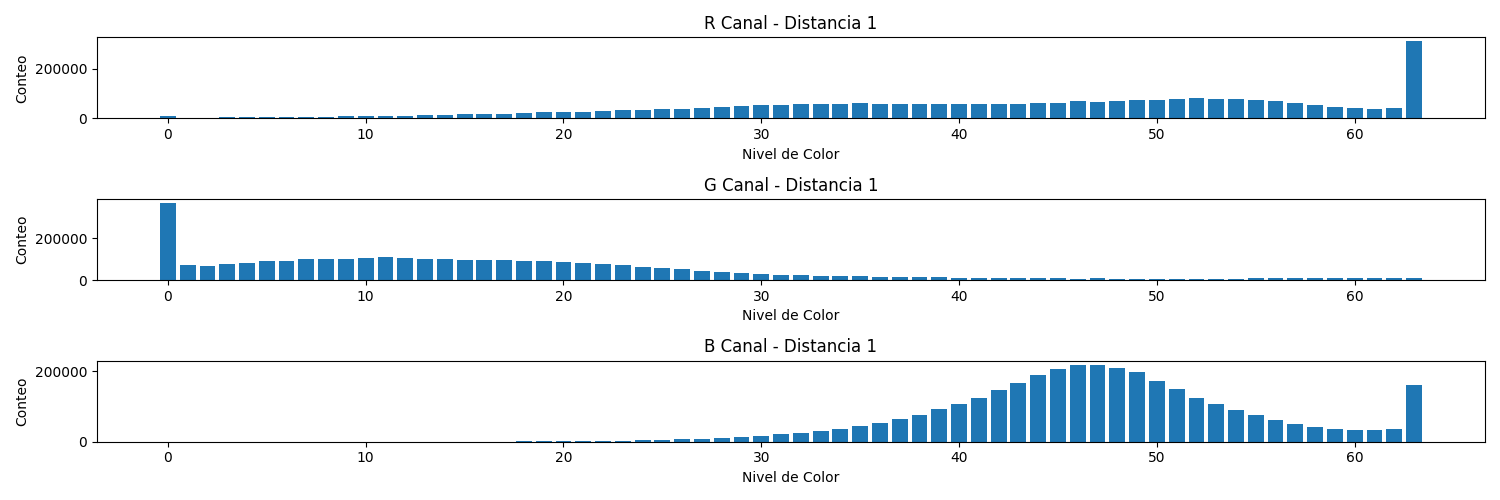
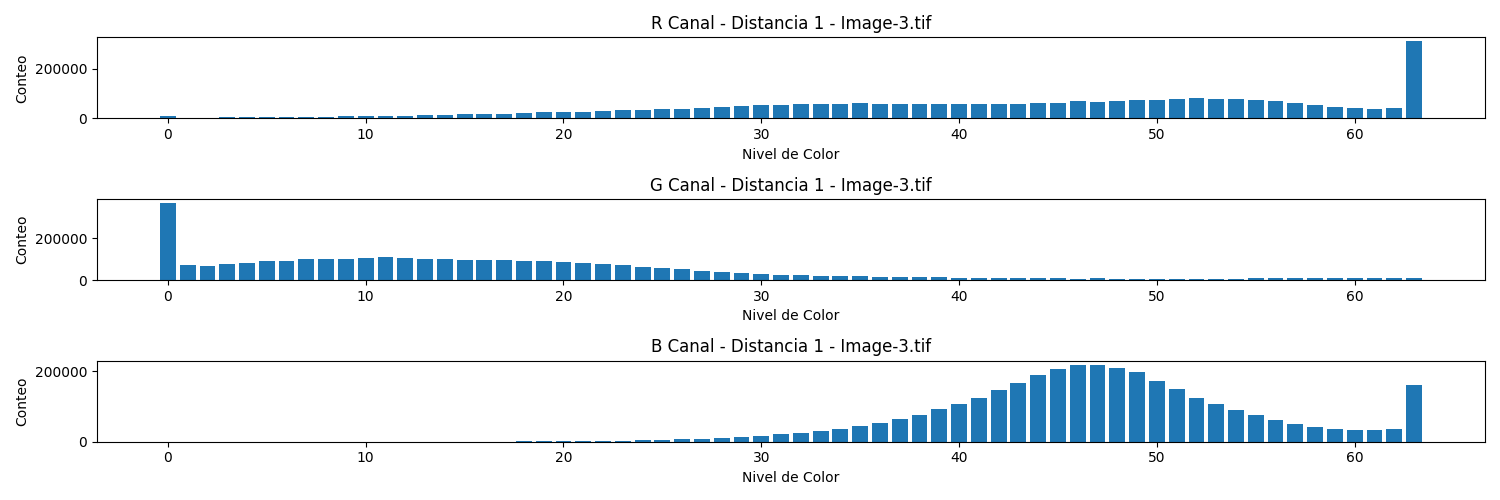
Autocorrelograma RGB listo, renombre de main e inicio de ejercicio 3

Changed region(s): [[0.4293, 0.66, 0.6133, 0.72], [0.4293, 0.36, 0.6133, 0.39], [0.4293, 0.03, 0.6133, 0.06]]

diff --git a/Codigos/funciones/autocorrelograma.py b/Codigos/funciones/autocorrelograma.py
@@ -37,8 +37,8 @@ def autocorrelograma_por_canal(imagenes, sufijos, distancias=[1, 3, 5], n_bins=6
             imagen_cuantizada = (imagen_rgb // factor).astype(np.int32)
 
             # Para cada canal (R, G, B)
-            for i, canal in enumerate(canales):
-                canal_img = imagen_cuantizada[:, :, i]  # Extraer el canal actual
+            for c, canal in enumerate(canales):
+                canal_img = imagen_cuantizada[:, :, c]  # Extraer el canal actual
 
                 # Para cada distancia, calcular el autocorrelograma
                 for k, d in enumerate(distancias):
@@ -65,11 +65,11 @@ def autocorrelograma_por_canal(imagenes, sufijos, distancias=[1, 3, 5], n_bins=6
 
             # Mostrar y guardar los autocorrelogramas por canal y distancia
             plt.figure(figsize=(15, 5))
-            for i, canal in enumerate(canales):
+            for c, canal in enumerate(canales):
                 for k, d in enumerate(distancias):
-                    plt.subplot(3, len(distancias), i * len(distancias) + k + 1)
+                    plt.subplot(3, len(distancias), c * len(distancias) + k + 1)
                     plt.bar(range(n_bins), autocorrelogramas[canal][:, k])
-                    plt.title(f"{canal} Canal - Distancia {d}")
+                    plt.title(f"{canal} Canal - Distancia {d} - {sufijos[i]}.tif")
                     plt.xlabel("Nivel de Color")
                     plt.ylabel("Conteo")
             
@@ -81,3 +81,72 @@ def autocorrelograma_por_canal(imagenes, sufijos, distancias=[1, 3, 5], n_bins=6
             plt.show()
 
     return autocorrelogramas
+
+def autocorrelograma_rgb(imagenes, sufijos, distancias=[1, 3, 5], n_bins=64, output_dir='./output/autocorrelogramas'):
+    """
+    Calcula y guarda el autocorrelograma para el conjunto RGB en una imagen.
+
+    Args:
+        imagenes: Lista de imágenes de entrada en formato BGR.
+        sufijos: Lista de sufijos para identificar cada imagen.
+        distancias: Lista de distancias a considerar para el autocorrelograma.
+        n_bins: Número de niveles de cuantización por canal (default 64).
+        output_dir: Directorio base para guardar los autocorrelogramas.
+    """
+    os.makedirs(output_dir, exist_ok=True)  # Crear el directorio principal si no existe
+
+    for i, imagen in enumerate(imagenes):
+        if imagen is None:
+            print(f"Error: No se cargó la imagen {sufijos[i]}.tif")
+        else:
+            # Crear directorio para la imagen
+            imagen_dir = os.path.join(output_dir, sufijos[i])
+            os.makedirs(imagen_dir, exist_ok=True)
+
+            # Convertir la imagen de BGR a RGB
+            imagen_rgb = cv2.cvtColor(imagen, cv2.COLOR_BGR2RGB)
+
+            # Cuantizar la imagen en niveles RGB
+            factor = 256 // n_bins
+            imagen_cuantizada = (imagen_rgb // factor).astype(np.int32)
+
+            # Crear el autocorrelograma para cada distancia
+            autocorrelograma_total = np.zeros((n_bins, len(distancias)))
+
+            # Para cada distancia
+            for k, d in enumerate(distancias):
+                # Recorrer todos los píxeles de la imagen
+                for x in range(imagen_cuantizada.shape[0]):
+                    for y in range(imagen_cuantizada.shape[1]):
+                        color = imagen_cuantizada[x, y]  # Color del píxel actual (R, G, B)
+
+                        # Recorrer los vecinos dentro de la distancia d
+                        for dx in range(-d, d + 1):
+                            for dy in range(-d, d + 1):
+                                # Evitar el mismo píxel (dx == 0 y dy == 0)
+                                if dx == 0 and dy == 0:
+                                    continue
+                                nx, ny = x + dx, y + dy
+                                if 0 <= nx < imagen_cuantizada.shape[0] and 0 <= ny < imagen_cuantizada.shape[1]:
+                                    vecino_color = imagen_cuantizada[nx, ny]  # Color del vecino
+                                    if np.array_equal(vecino_color,color):  # Solo sumar si el color del vecino es igual al actual
+                                        autocorrelograma_total[color, k] += 1
+
+            # Mostrar y guardar los autocorrelogramas para las diferentes distancias
+            plt.figure(figsize=(15, 5))
+            for k, d in enumerate(distancias):
+                #autocorrelograma_rgb = np.sum(autocorrelograma_total[:, :, :, k], axis=(0, 1, 2))  # Sumamos en 3D
+                plt.subplot(1, len(distancias), k + 1)
+                plt.bar(range(n_bins), autocorrelograma_total[:,k])
+                plt.title(f"Distancia {d} - {sufijos[i]}.tif")
+                plt.xlabel("Nivel de Color")
+                plt.ylabel("Conteo")
+
+            plt.tight_layout()
+
+            # Guardar la figura en el directorio correspondiente
+            autocorrelograma_path = os.path.join(imagen_dir, f"{sufijos[i]}_autocorrelograma_rgb.png")
+            plt.savefig(autocorrelograma_path)
+            plt.show()
+
+    return autocorrelograma_total

diff --git a/Codigos/ejercicio1.py b/Codigos/ejercicio1.py
@@ -1,8 +1,8 @@
 from funciones.cargar import cargar_imagenes, mostrar_imagenes
 from funciones.histograma import mostrar_histogramas
-from funciones.autocorrelograma import autocorrelograma_por_canal
+from funciones.autocorrelograma import autocorrelograma_por_canal , autocorrelograma_rgb
 
-def main():
+def ejercicio1():
     # Set 1: Imágenes de la carpeta "PAIByB-3"
     sufijos_set1 = ['Image-1', 'Image-2', 'Image-3', 'Image-4']
     ruta_base_set1 = './Imagenes/PAIByB-3/'  # Ruta base para el set 1
@@ -21,12 +21,13 @@ def main():
 
     # Mostrar histogramas del set 1
     print("Mostrando histogramas del Set 1 (PAIByB-3):")
-    mostrar_histogramas(imagenes_set1, sufijos_set1)
+    #mostrar_histogramas(imagenes_set1, sufijos_set1)
 
     print("Mostrando autocorrelogramas del Set 2 (PAIByB-4):")
-    autocorrelograma_por_canal(imagenes_set1,sufijos_set1, distancias = [1])
+    #autocorrelograma_por_canal(imagenes_set1,sufijos_set1, distancias = [1])
+    autocorrelograma_rgb(imagenes_set1,sufijos_set1, distancias = [1])
 
   
 
 if __name__ == "__main__":
-    main()
+    ejercicio1()

diff --git a/Codigos/ejercicio3.py b/Codigos/ejercicio3.py
@@ -1,0 +1,14 @@
+from funciones.cargar import cargar_imagenes, mostrar_imagenes
+
+def ejercicio3():
+# Set 2: Imágenes de la carpeta "PAIByB-4"
+    sufijos_set2 = ['img-1', 'img-2', 'img-3', 'img-4', 'img-5']
+    ruta_base_set2 = './Imagenes/PAIByB-4/'  # Ruta base para el set 
+
+    
+
+    # Cargar imágenes del set 2
+    imagenes_set2 = cargar_imagenes(sufijos_set2, ruta_base_set2)
+
+if __name__ == "__main__":
+    ejercicio3()
